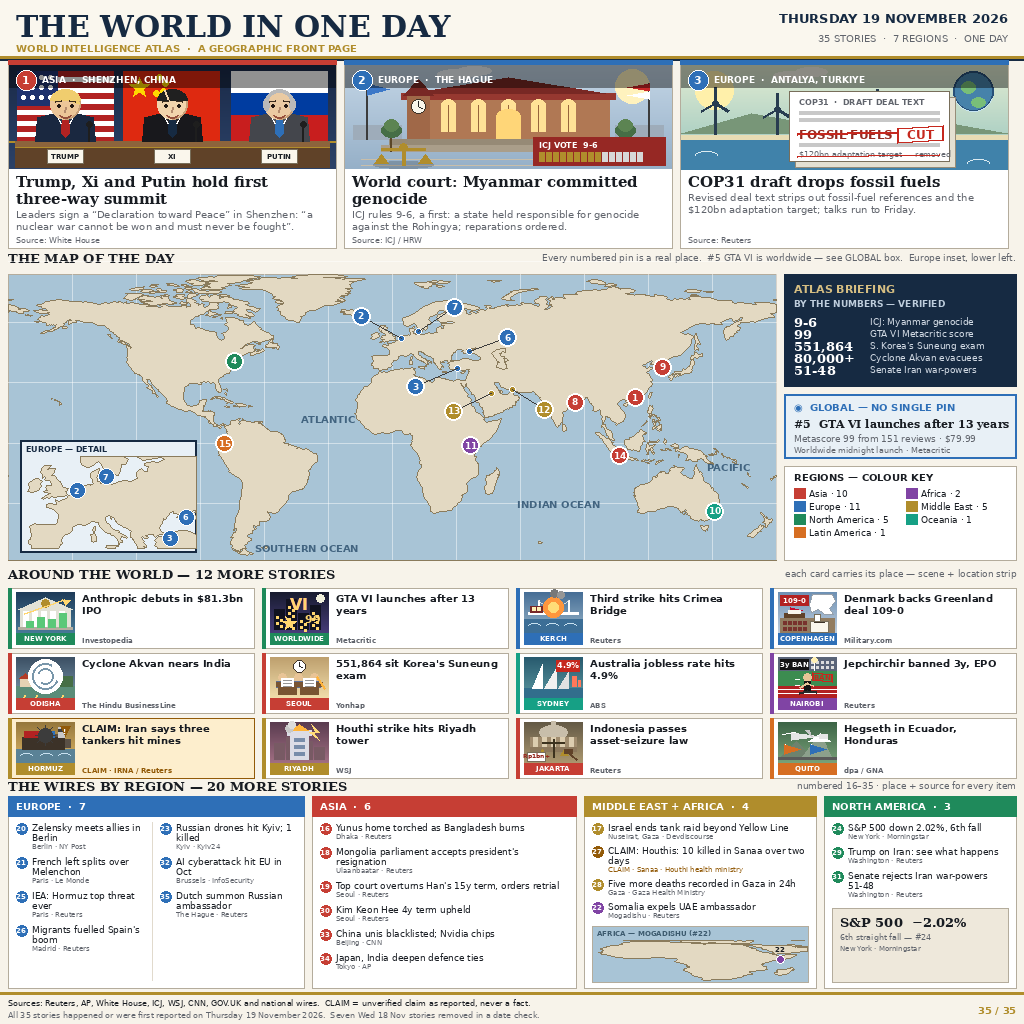
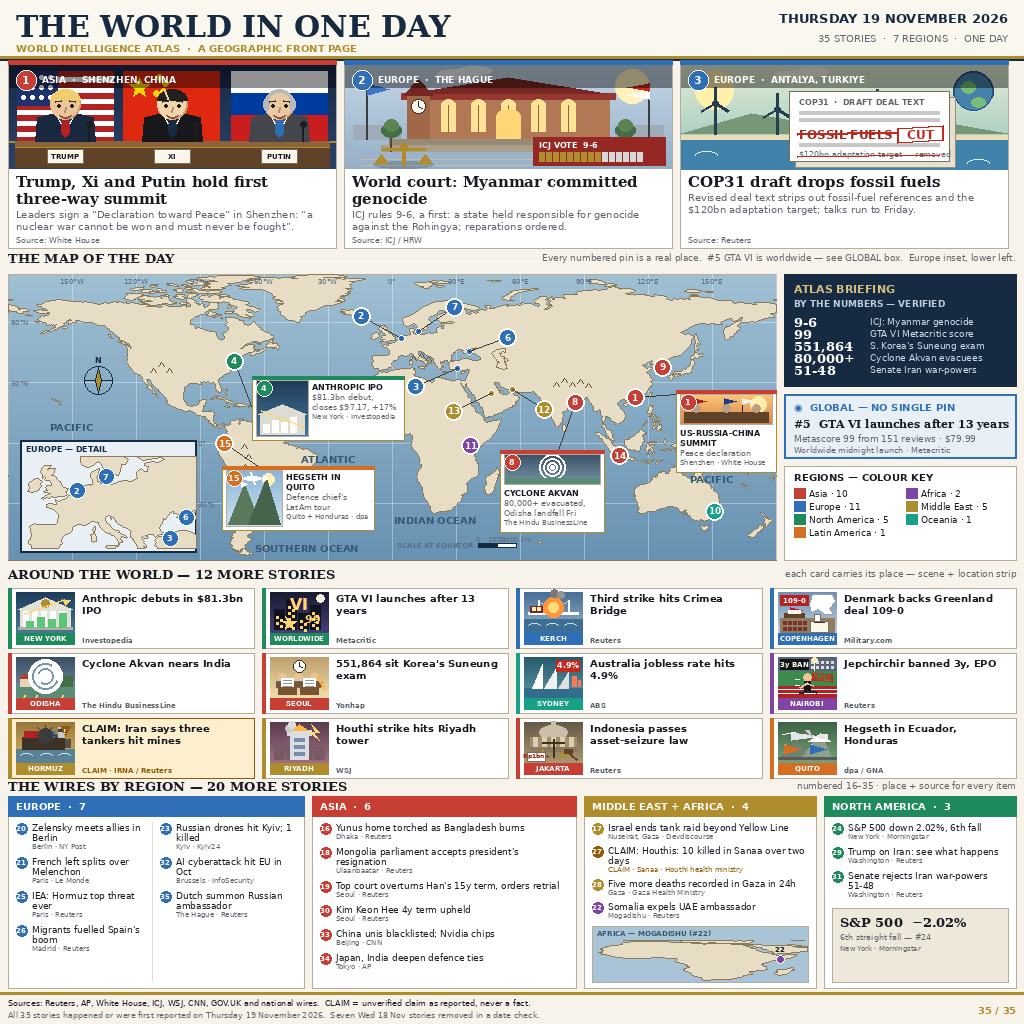
news-image-20261119 v8-final: Cinematic Editorial Atlas map (Prototype A)
Port Prototype A map into the V8 production render (Bram final decision,
bram-v8-final-prompt.txt verbatim): teal-to-navy ocean gradient, ridge
marks on real ranges, frame coordinate labels, 4 illustrated callouts
(#4 IPO, #1 summit, #8 cyclone, #15 Quito), gold compass rose, honest
equator scale bar. Fixes: summit busts lightened (were black
silhouettes), 0-degree label moved clear of pin 15, #1/#8 card bottoms
+4px so source lines clear the border, INDIAN OCEAN label moved clear
of the #8 card. ME inset NOT forced: no clean ocean slot in A (every
candidate covers land or collides with the #15 callout); per Bram's
'where useful without overcrowding' qualifier. news.json + main.py
unchanged; 35 stories, CLAIM #12/#27 preserved. entry.png 229,146 B,
SHA-256 6416a0403129f6dc3ba36d73e380f11daeac3cfccd20d588d59379b49ea6633c,
render x2 + main.py x2 byte-identical.

Changed region(s): [[0.0, 0.3438, 0.7812, 0.5625]]

diff --git a/render.py b/render.py
@@ -30,7 +30,10 @@ INK     = (24, 28, 34)
 MUTED   = (96, 100, 108)
 RULE    = (180, 172, 156)
 OCEAN   = (168, 196, 214)
-LANDC   = (227, 217, 194)
+OCEAN_T = (160, 192, 212)   # V8-final (A): teal-to-navy ocean gradient, top
+OCEAN_B = (104, 146, 178)   # V8-final (A): teal-to-navy ocean gradient, bottom
+RIDGE   = (96, 74, 52)      # V8-final (A): mountain ridge marks
+LANDC   = (231, 221, 197)   # V8-final (A): parchment, slightly warmer than V8.2
 LANDOUT = (138, 123, 92)
 CARD    = (255, 255, 255)
 NAVY    = (22, 42, 66)
@@ -491,7 +494,12 @@ d.text((W-8, 252), "Every numbered pin is a real place.  #5 GTA VI is worldwide 
        font=font(F_SANS, 9), fill=MUTED, anchor="ra")
 
 MAP = (8, 274, 776, 560)          # 768 x 286 draw area (was 768 x 272)
-d.rectangle(MAP, fill=OCEAN, outline=RULE, width=1)
+# V8-final (A: Cinematic Editorial Atlas): teal-to-navy ocean depth gradient.
+for _yy in range(MAP[1], MAP[3]):
+    _t = (_yy - MAP[1]) / max(1, MAP[3] - MAP[1] - 1)
+    _c = tuple(int(OCEAN_T[j] + (OCEAN_B[j] - OCEAN_T[j]) * _t) for j in range(3))
+    d.line([(MAP[0], _yy), (MAP[2], _yy)], fill=_c)
+d.rectangle(MAP, outline=RULE, width=1)
 land = json.load(open(LAND))
 LAT_TOP, LAT_BOT = 84, -58
 def project(lon, lat, box=MAP):
@@ -501,10 +509,10 @@ def project(lon, lat, box=MAP):
 
 for lon in range(-150, 181, 30):
     x = project(lon, 0)[0]
-    d.line([(x, MAP[1]), (x, MAP[3])], fill=(255,255,255,120), width=1)
+    d.line([(x, MAP[1]), (x, MAP[3])], fill=(255,255,255,90), width=1)
 for lat in range(-30, 91, 30):
     y = project(0, lat)[1]
-    d.line([(MAP[0], y), (MAP[2], y)], fill=(255,255,255,120), width=1)
+    d.line([(MAP[0], y), (MAP[2], y)], fill=(255,255,255,90), width=1)
 for feat in land["features"]:
     geom = feat["geometry"]
     polys = geom["coordinates"] if geom["type"] == "Polygon" else \
@@ -516,10 +524,41 @@ for feat in land["features"]:
             pts.append(project(lon, lat))
         if len(pts) > 2:
             d.polygon(pts, fill=LANDC, outline=LANDOUT)
-for txt, lon, lat in [("ATLANTIC", -30, 12), ("PACIFIC", -150, -2), ("PACIFIC", 158, -12),
-                      ("INDIAN OCEAN", 78, -30), ("SOUTHERN OCEAN", -40, -52)]:
+# V8-final (A): mountain ridge marks — fine dark strokes on REAL ranges only.
+# (Prototype-A coords + (8, 250) to production page coords.)
+def ridge(x, y):
+    d.line([(x, y), (x + 3, y - 4), (x + 6, y)], fill=RIDGE, width=1)
+for x, y in [(553, 386), (561, 382), (569, 386), (577, 383), (585, 387)]:  # Himalayas
+    ridge(x, y)
+for x, y in [(241, 448), (245, 458), (242, 468)]:  # Andes (above #15 callout)
+    ridge(x, y)
+for x, y in [(150, 372), (158, 366), (166, 372)]:  # Rockies
+    ridge(x, y)
+for x, y in [(410, 360), (418, 357), (425, 360)]:  # Alps
+    ridge(x, y)
+for x, y in [(378, 390), (386, 387)]:  # Atlas
+    ridge(x, y)
+# V8-final (A): ocean labels nudged out from under the callout cards.
+for txt, lon, lat in [("ATLANTIC", -30, -8), ("PACIFIC", -150, 8), ("PACIFIC", 150, -18),
+                      ("INDIAN OCEAN", 20, -38), ("SOUTHERN OCEAN", -40, -52)]:
     x, y = project(lon, lat)
-    d.text((x, y), txt, font=font(F_SANS_B, 10), fill=(66, 100, 128), anchor="mm")
+    d.text((x, y), txt, font=font(F_SANS_B, 10), fill=(52, 88, 118), anchor="mm")
+# V8-final (A): coordinate labels on frame edges, 7px muted.
+for lon in range(-150, 181, 30):
+    x = project(lon, 0)[0]
+    if x >= MAP[2] - 4:
+        continue
+    lab = f"{abs(lon)}°{'W' if lon < 0 else 'E' if lon > 0 else ''}"
+    d.text((x, 277), lab, font=font(F_SANS, 7), fill=(90, 110, 128), anchor="ma")
+for lat, lab in [(60, "60°N"), (30, "30°N")]:
+    y = project(0, lat)[1]
+    d.text((11, y), lab, font=font(F_SANS, 7), fill=(90, 110, 128), anchor="lm")
+# 0° / 30°S sit right of the Europe inset; x=198 keeps clear of both the
+# inset edge (196) and pin 15's badge (left edge ~215). FIX: prototype A had
+# the 0° label ~2px from pin 15's dot; moved left for clearance.
+for lat, lab in [(0, "0°"), (-30, "30°S")]:
+    y = project(0, lat)[1]
+    d.text((198, y), lab, font=font(F_SANS, 7), fill=(90, 110, 128), anchor="lm")
 
 # ---- Europe detail inset (relieves the dense pin cluster): lon -12..38, lat 37.5..61,
 # ---- placed over the empty South Atlantic, bottom-left of the map.
@@ -580,13 +619,146 @@ for n, (lon, lat) in {2: (4.30, 52.08), 7: (12.57, 55.68), 6: (36.50, 45.30),
     d.ellipse([x-8, y-8, x+8, y+8], fill=rc, outline=(255,255,255), width=1)
     d.text((x, y), str(n), font=font(F_SANS_B, 8), fill=(255,255,255), anchor="mm")
 
-# ---- pins (featured 1-4, 6-15; #5 GLOBAL, no pin) ----
+# ================= V8-final (A: Cinematic Editorial Atlas) — ILLUSTRATED CALLOUTS =========
+# Each: paper card, region-colour top strip, gold outline, one miniature
+# editorial scene + short factual label, thin connector to the true pin dot.
+# Cards sit in EMPTY ocean only; connectors are drawn before the pins so
+# the pin dot covers the line end. (Prototype-A coords + (8, 250).)
+# NOTE on refinement 2 (Middle East inset): no clean ocean slot exists in
+# A's layout — every candidate 140x85 slot either covers land (Australia's
+# Bight, New Zealand, Brazil's bulge, Siberia/Japan) or collides with a
+# callout/pin (the South Atlantic slot B uses is occupied by A's #15 Quito
+# callout). Per Bram's "where useful without overcrowding" qualifier and
+# refinement 5 (no obscured geography), the inset is NOT forced in; B's
+# geographic precision is borrowed instead via the frame coordinate labels,
+# honest equator scale bar, and nudged ocean labels above.
+
+def scene_summit(box):
+    x0, y0, x1, y1 = box
+    sky(d, box, (252, 200, 122), (216, 132, 72))
+    d.ellipse([x1 - 22, y0 + 2, x1 - 6, y0 + 18], fill=(255, 238, 172))
+    cx = (x0 + x1) // 2
+    for fx, fc in [(x0 + 14, (178, 34, 34)), (cx - 2, (30, 60, 140)), (x1 - 30, (240, 240, 240))]:
+        d.line([(fx, y0 + 4), (fx, y1 - 12)], fill=(30, 30, 30), width=1)
+        d.polygon([(fx, y0 + 4), (fx + 12, y0 + 7), (fx, y0 + 10)], fill=fc)
+    d.rectangle([x0 + 4, y1 - 12, x1 - 4, y1 - 2], fill=(96, 66, 40))
+    # FIX (refinement 3): prototype busts were black silhouettes at 200%;
+    # lightened to warm tan so the three figures stay recognizable.
+    for hx in (x0 + 16, cx, x1 - 16):
+        d.ellipse([hx - 4, y1 - 20, hx + 4, y1 - 12], fill=(186, 160, 128))
+
+def scene_ipo(box):
+    x0, y0, x1, y1 = box
+    sky(d, box, (30, 60, 90), (70, 120, 150))
+    d.rectangle([x0 + 4, y1 - 22, x1 - 4, y1 - 2], fill=(220, 220, 210))
+    d.polygon([(x0 + 2, y1 - 22), ((x0 + x1) // 2, y1 - 32), (x1 - 2, y1 - 22)], fill=(220, 220, 210))
+    for i, h in enumerate((8, 12, 10, 15)):
+        bx = x0 + 7 + i * 9
+        d.rectangle([bx, y1 - 4 - h, bx + 6, y1 - 4], fill=(255, 255, 255))
+    d.line([(x0 + 5, y1 - 26), (x1 - 5, y1 - 10)], fill=(255, 214, 110), width=2)
+
+def scene_cyclone(box):
+    x0, y0, x1, y1 = box
+    sky(d, box, (60, 80, 100), (120, 150, 170))
+    cx = (x0 + x1) // 2
+    cy = y0 + (y1 - y0) // 2 - 2
+    for r in (13, 9, 5):
+        d.ellipse([cx - r, cy - r, cx + r, cy + r], outline=(255, 255, 255), width=2)
+    d.ellipse([cx - 2, cy - 2, cx + 2, cy + 2], fill=(255, 255, 255))
+    d.rectangle([x0, y1 - 6, x1, y1], fill=(90, 140, 120))
+
+def scene_quito(box):
+    x0, y0, x1, y1 = box
+    sky(d, box, (140, 180, 215), (205, 225, 240))
+    d.ellipse([x1 - 20, y0 + 3, x1 - 8, y0 + 15], fill=(255, 240, 180))
+    d.polygon([(x0 + 2, y1 - 2), (x0 + 18, y0 + 14), (x0 + 34, y1 - 2)], fill=(90, 120, 90))
+    d.polygon([(x0 + 22, y1 - 2), (x0 + 40, y0 + 8), (x1 - 2, y1 - 2)], fill=(70, 100, 75))
+    d.polygon([(x0 + 15, y0 + 11), (x0 + 21, y0 + 14), (x0 + 15, y0 + 17)], fill=(255, 255, 255))
+    d.polygon([(x0 + 37, y0 + 5), (x0 + 43, y0 + 8), (x0 + 37, y0 + 11)], fill=(255, 255, 255))
+    px, py = (x0 + x1) // 2 - 2, y0 + 8
+    d.ellipse([px - 9, py - 2, px + 9, py + 2], fill=(255, 255, 255))
+    d.line([(px - 2, py - 6), (px + 2, py + 6)], fill=(255, 255, 255), width=2)
+
+def callout(box, n, region, scene_fn, title, body_lines, source, scene_box, text_xy):
+    x0, y0, x1, y1 = box
+    rc = REGION[region]
+    d.rectangle(box, fill=CARD, outline=GOLD, width=1)
+    d.rectangle([x0, y0, x1, y0 + 3], fill=rc)
+    scene_fn(scene_box)
+    d.rectangle(scene_box, outline=RULE, width=1)
+    cx0, cy0 = scene_box[0] + 8, scene_box[1] + 8
+    d.ellipse([cx0 - 8, cy0 - 8, cx0 + 8, cy0 + 8], fill=rc, outline=(255, 255, 255), width=1)
+    d.text((cx0, cy0), str(n), font=font(F_SANS_B, 8), fill=(255, 255, 255), anchor="mm")
+    tx, ty, tw = text_xy
+    lines = wrap(title, font(F_SANS_B, 8), tw)
+    ty = draw_lines(d, tx, ty, lines, font(F_SANS_B, 8), INK, leading=10)
+    ty = draw_lines(d, tx, ty, body_lines, font(F_SANS, 8), MUTED, leading=10)
+    d.text((tx, ty), source, font=font(F_SANS, 7), fill=MUTED)
+
+def connector(n, from_xy):
+    x, y = project(*PINS[n])
+    d.line([from_xy, (x, y)], fill=(60, 60, 60), width=1)
+
+# PINS moved up from the pins block below: the callout connectors above need
+# them at draw time. Values identical to V8.2 (verified: same coordinates).
 PINS = {
  1: (114.06, 22.55), 2: (4.30, 52.08), 3: (30.71, 36.90), 4: (-74.00, 40.71),
  6: (36.50, 45.30), 7: (12.57, 55.68), 8: (85.80, 20.30), 9: (126.98, 37.57),
  10: (151.21, -33.87), 11: (36.82, -1.29), 12: (56.30, 26.60), 13: (46.68, 24.71),
  14: (106.85, -6.21), 15: (-78.51, -0.18),
 }
+
+# #4 IPO — Atlantic box; scene left, text right.
+connector(4, (252, 408))
+callout((252, 376, 404, 440), 4, "North America", scene_ipo,
+        "ANTHROPIC IPO", ["$81.3bn debut,", "closes $97.17, +17%"],
+        "New York · Investopedia",
+        (256, 380, 308, 436), (312, 382, 88))
+# #1 Summit — Pacific east of Japan, vertical card. Card bottom +4px vs
+# prototype so the source line clears the border (was <2px margin at 200%).
+connector(1, (676, 394))
+callout((676, 390, 776, 472), 1, "Asia", scene_summit,
+        "US-RUSSIA-CHINA SUMMIT", ["Peace declaration"],
+        "Shenzhen · White House",
+        (680, 394, 772, 424), (680, 428, 92))
+# #8 Cyclone — open Indian Ocean south of India. Card bottom +4px vs
+# prototype so the source line clears the border (was <2px margin at 200%).
+connector(8, (558, 450))
+callout((500, 450, 604, 532), 8, "Asia", scene_cyclone,
+        "CYCLONE AKVAN", ["80,000+ evacuated,", "Odisha landfall Fri"],
+        "The Hindu BusinessLine",
+        (504, 454, 600, 484), (504, 488, 92))
+# #15 Hegseth — South Atlantic east of the inset.
+connector(15, (258, 466))
+callout((222, 466, 374, 530), 15, "Latin America", scene_quito,
+        "HEGSETH IN QUITO", ["Defence chief's", "LatAm tour"],
+        "Quito + Honduras · dpa",
+        (226, 470, 282, 526), (286, 472, 84))
+
+# V8-final (A): gold compass rose — empty North Pacific, away from pins/cards.
+ccx, ccy = 98, 380
+d.ellipse([ccx - 14, ccy - 14, ccx + 14, ccy + 14], outline=NAVY, width=1)
+d.line([(ccx, ccy - 14), (ccx, ccy + 14)], fill=NAVY, width=1)
+d.line([(ccx - 14, ccy), (ccx + 14, ccy)], fill=NAVY, width=1)
+d.polygon([(ccx, ccy - 13), (ccx + 3, ccy), (ccx, ccy + 13), (ccx - 3, ccy)],
+          fill=GOLD, outline=NAVY)
+d.text((ccx, ccy - 20), "N", font=font(F_SANS_B, 8), fill=NAVY, anchor="mm")
+
+# V8-final (A): scale bar — honest only at the equator (equirectangular
+# stretches with latitude). 768 px = 360 deg -> 2.1333 px/deg; 111.32 km/deg
+# -> 2000 km = 38.3 px.
+sb_x, sb_y = 478, 547
+d.text((sb_x - 4, sb_y - 2), "SCALE AT EQUATOR", font=font(F_SANS_B, 7),
+       fill=(90, 110, 128), anchor="rm")
+d.rectangle([sb_x, sb_y - 4, sb_x + 19, sb_y], fill=NAVY)
+d.rectangle([sb_x + 19, sb_y - 4, sb_x + 38, sb_y], fill=(255, 255, 255),
+            outline=NAVY, width=1)
+d.text((sb_x, sb_y - 12), "0", font=font(F_SANS, 7), fill=(90, 110, 128), anchor="ma")
+d.text((sb_x + 19, sb_y - 12), "1000", font=font(F_SANS, 7), fill=(90, 110, 128), anchor="ma")
+d.text((sb_x + 38, sb_y - 12), "2000 km", font=font(F_SANS, 7), fill=(90, 110, 128), anchor="ma")
+
+# ---- pins (featured 1-4, 6-15; #5 GLOBAL, no pin) ----
+# (PINS defined above, before the V8-final callouts, which connect to them.)
 LEADER = {2: (-40, -22), 7: (36, -24), 6: (38, -14), 3: (-42, 18), 12: (32, 20), 13: (-38, 18)}
 for s in featured:
     n = s["n"]
